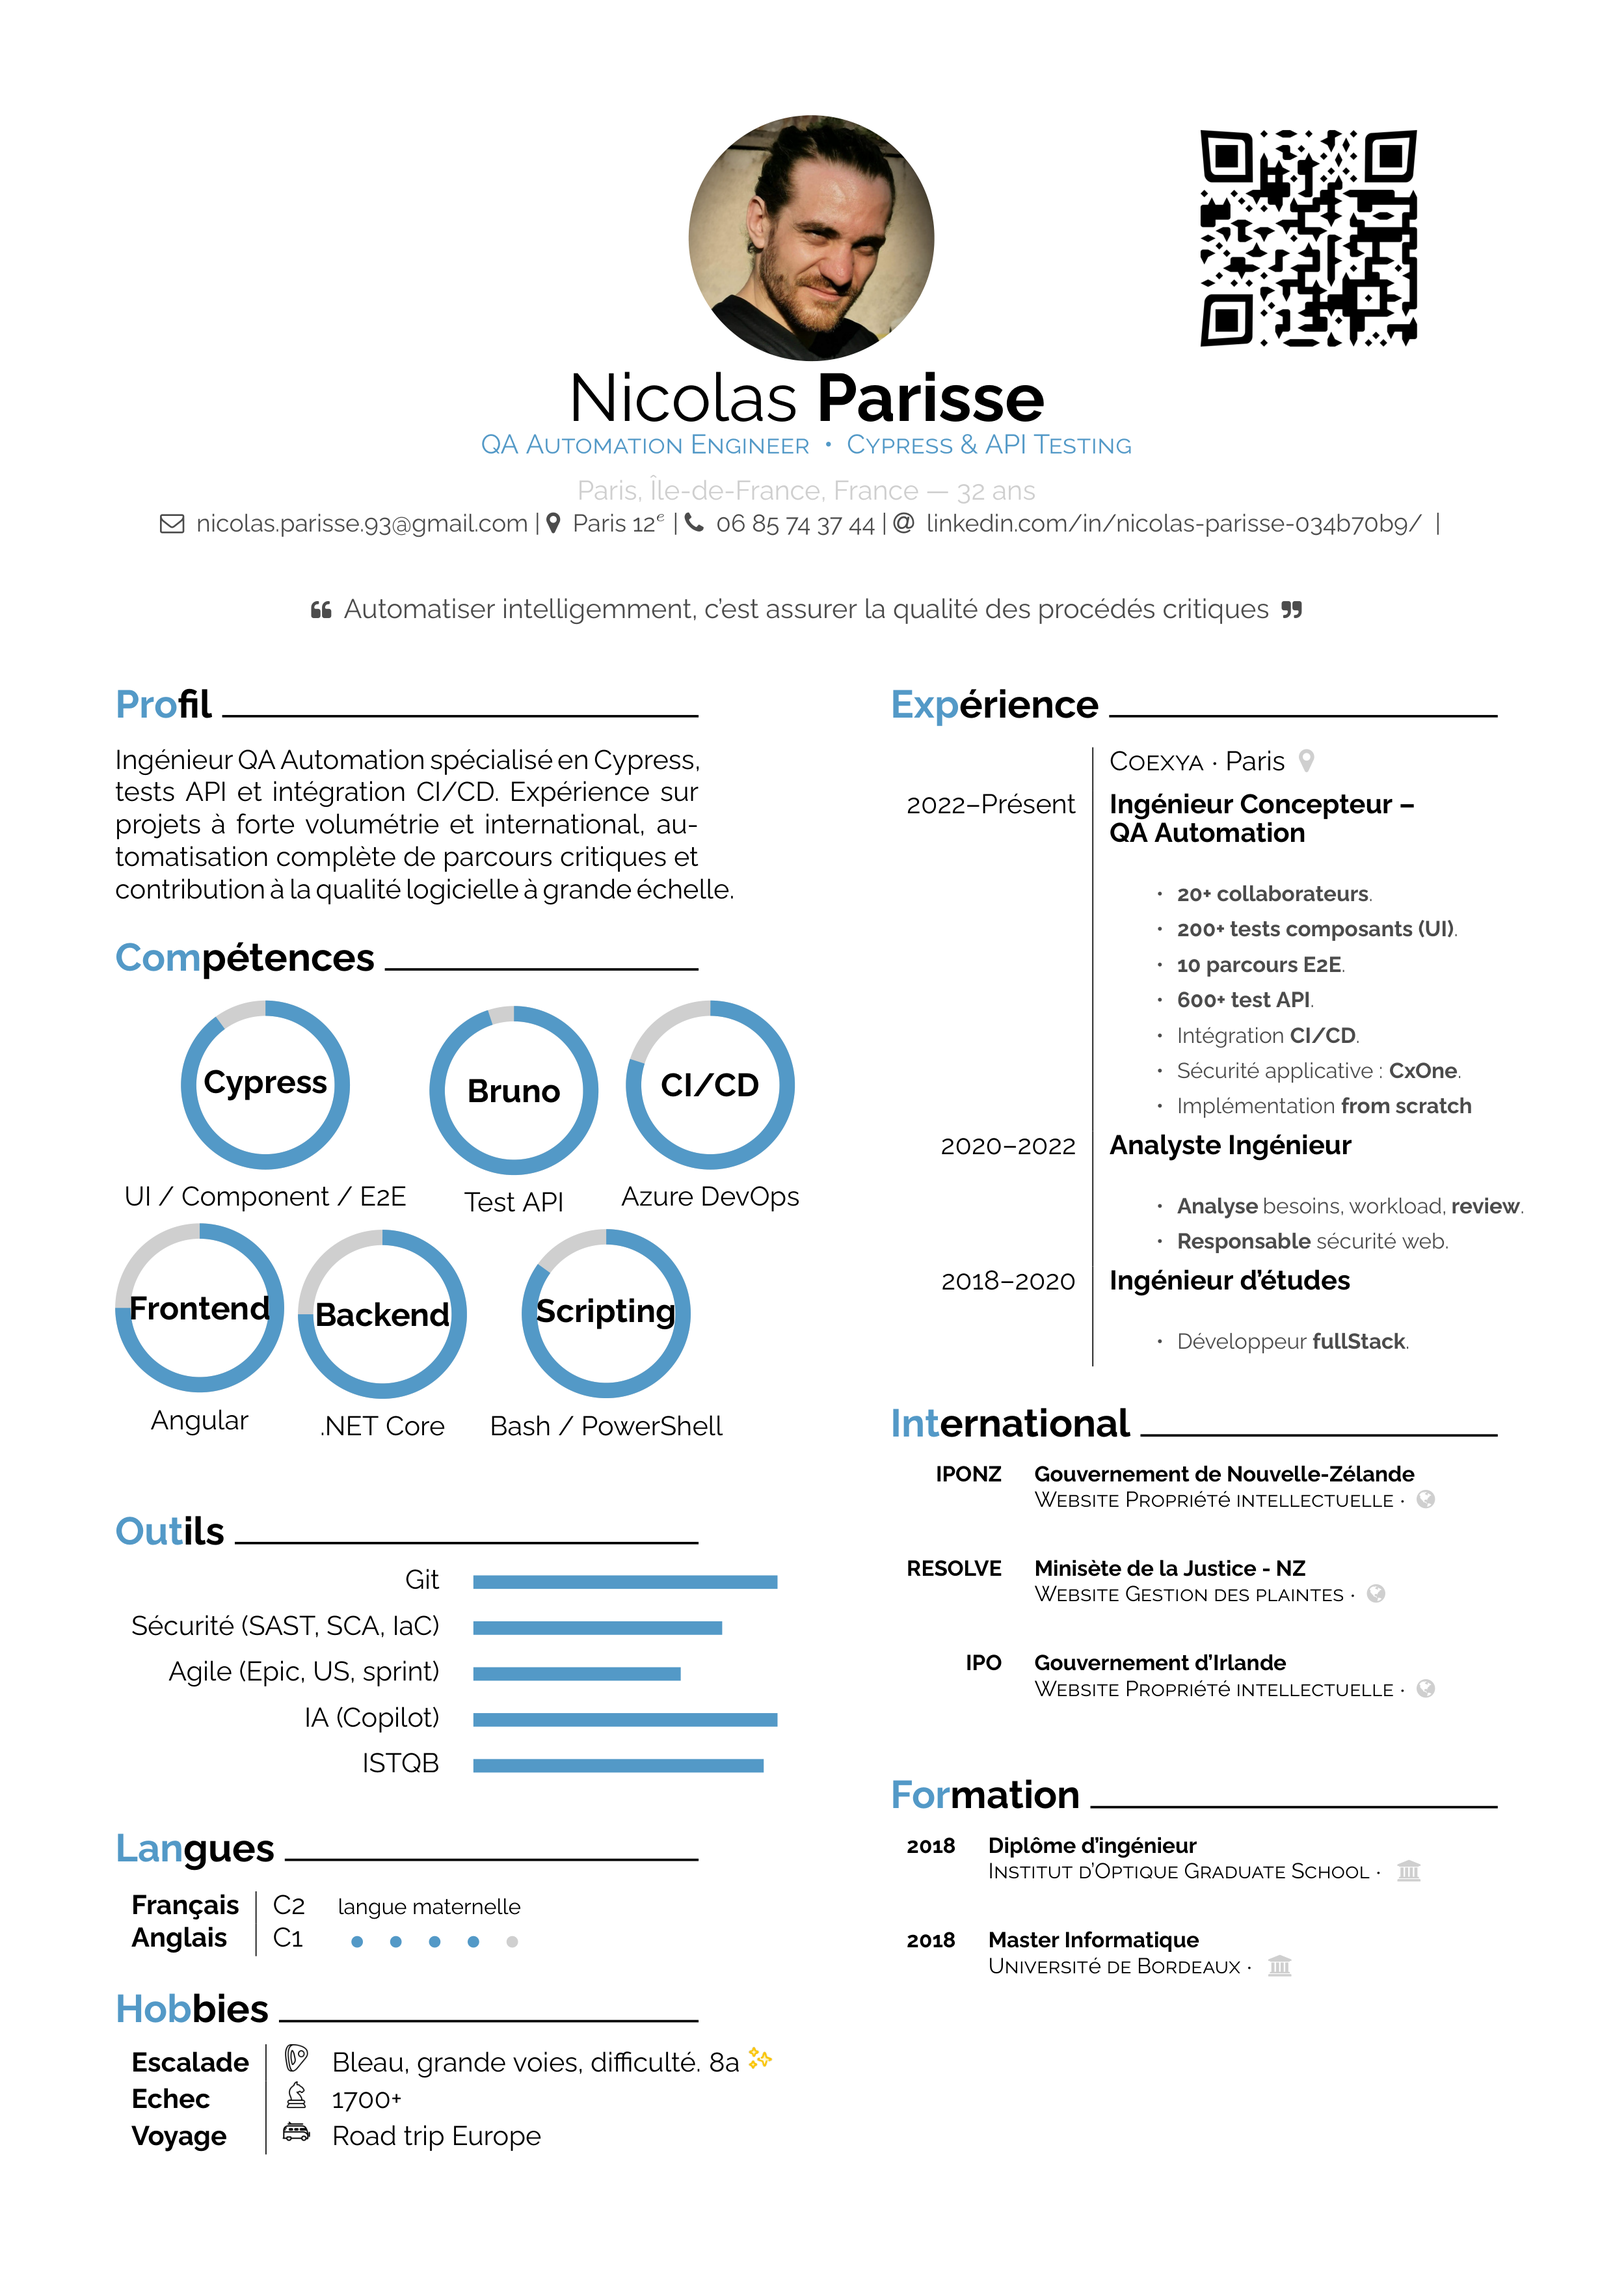
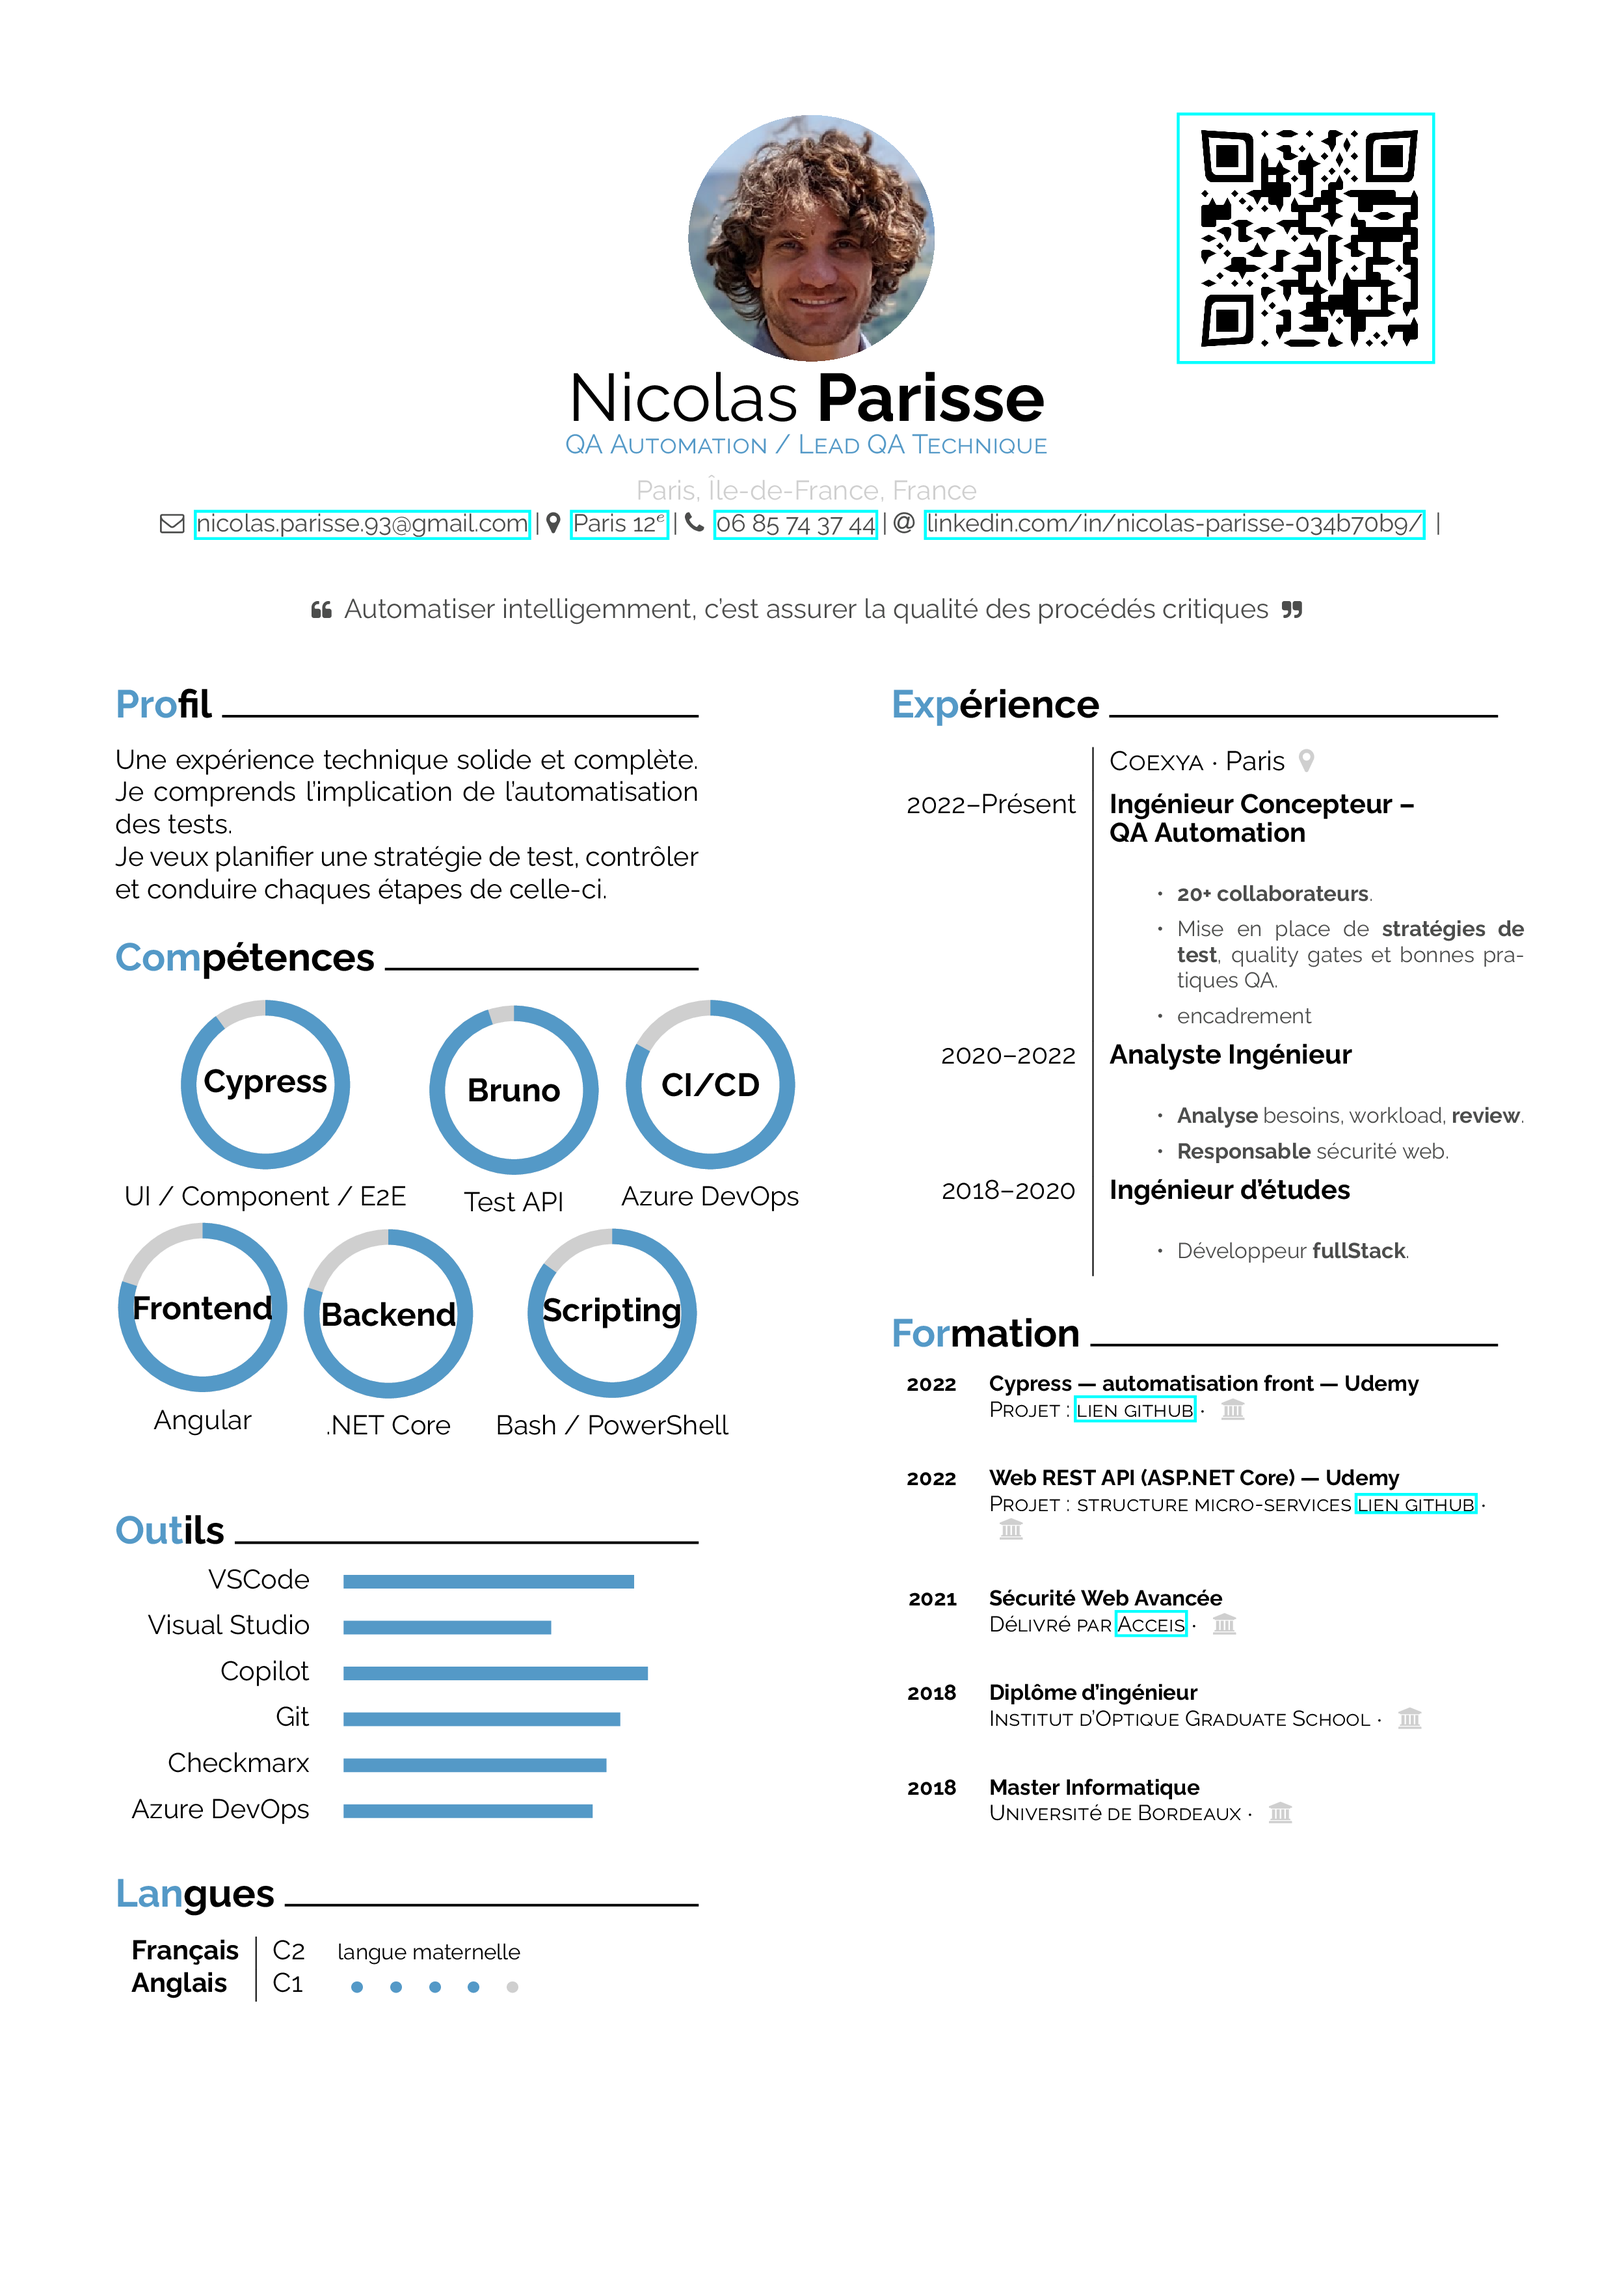
Mise à jour cv

diff --git a/index.html b/index.html
@@ -1308,7 +1308,7 @@
                 </li>
 
                 <li data-i18n="experience.items.0.bullets.3" data-i18n-html="true">
-                  Planification de <strong>10 parcours E2E</strong> [...]
+                  Planification de <strong>5 parcours E2E</strong> [...]
                 </li>
 
                 <li data-i18n="experience.items.0.bullets.4" data-i18n-html="true">
